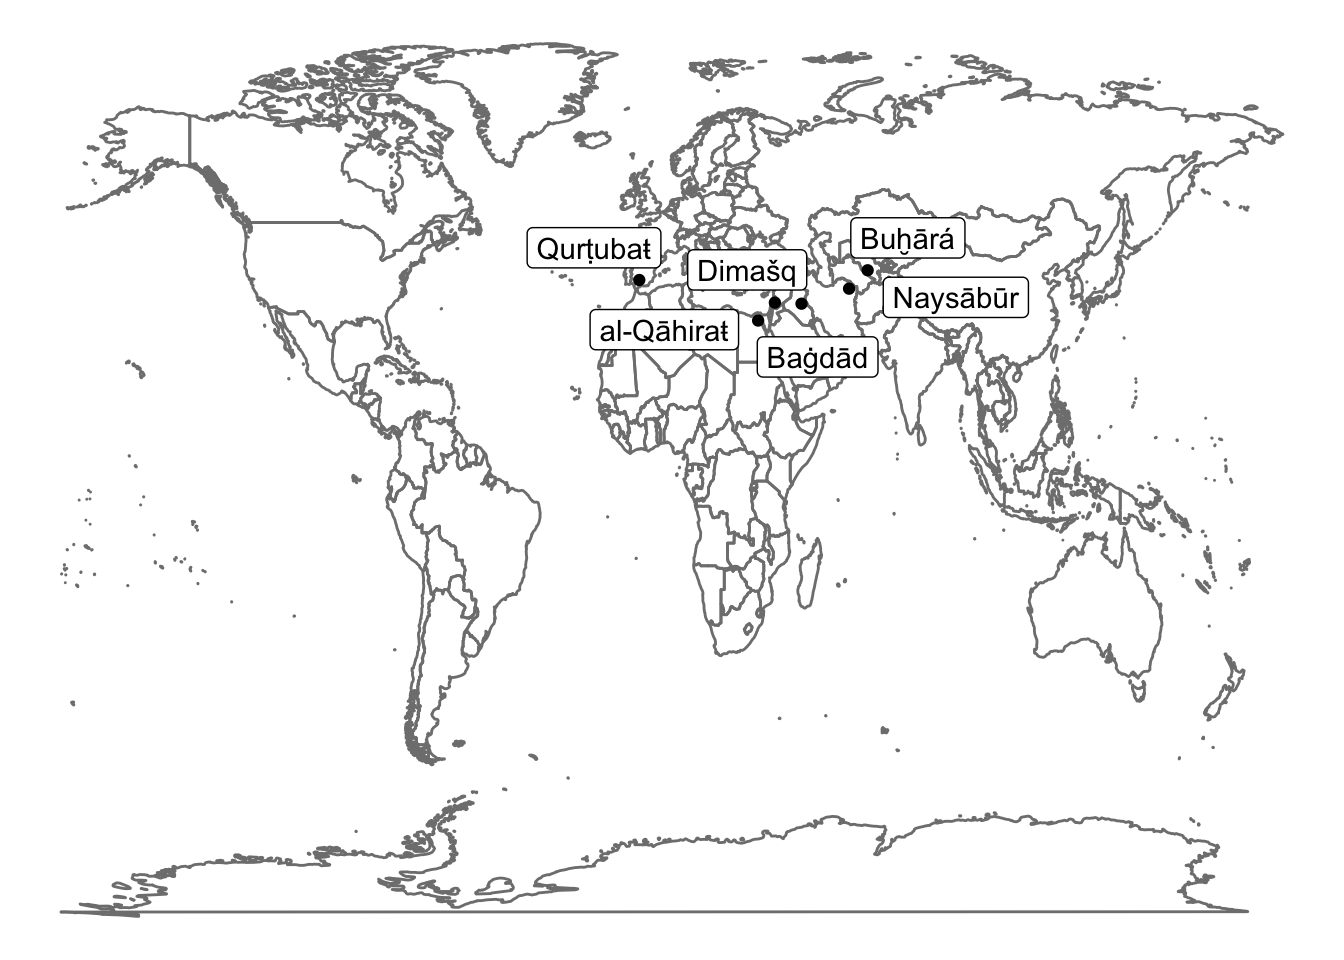
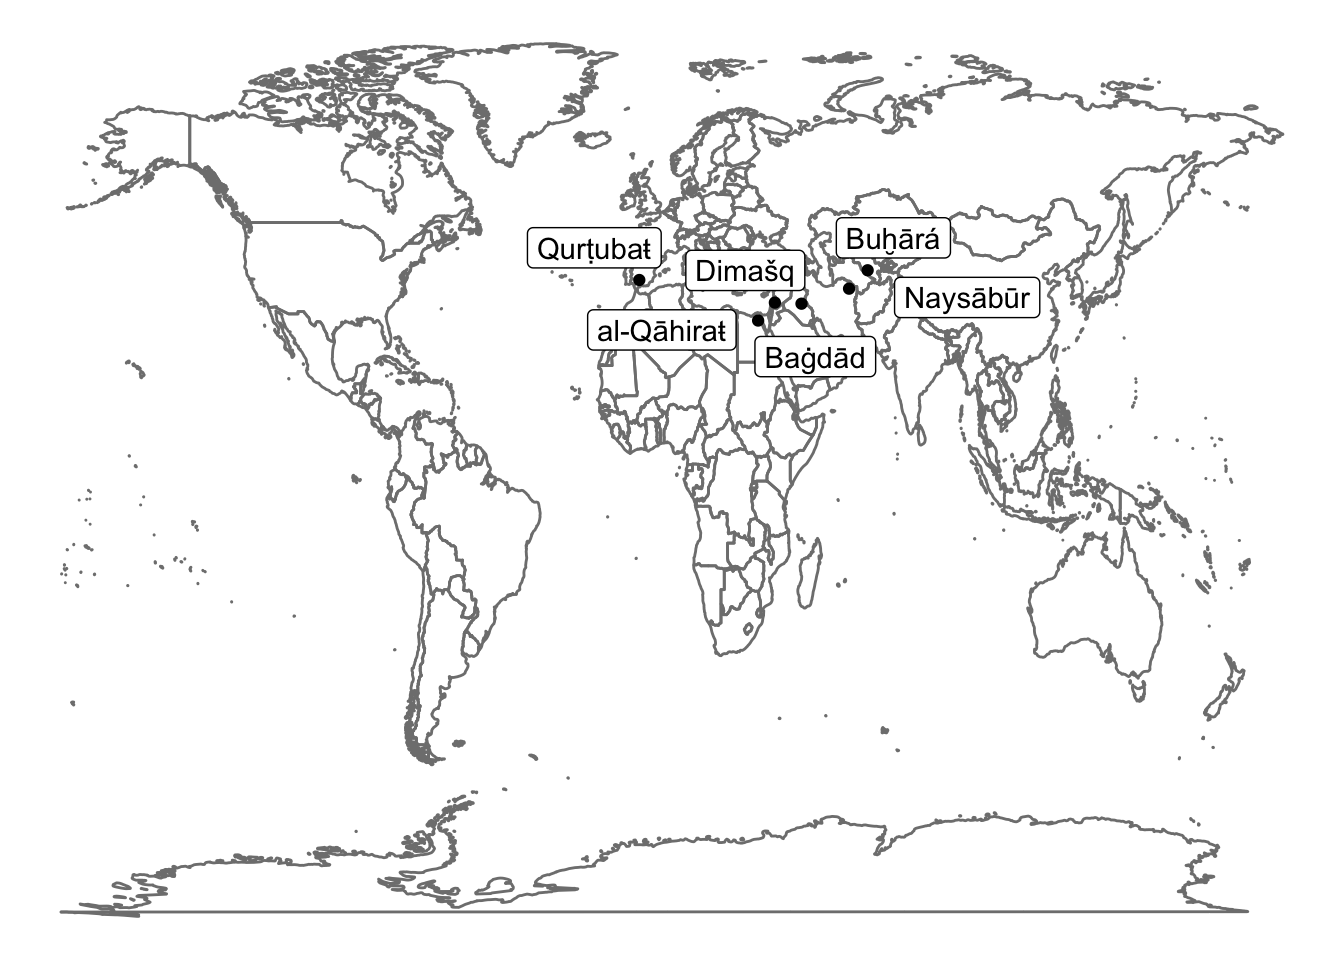
Update the book

Changed region(s): [[0.4375, 0.2188, 0.7812, 0.4062], [0.375, 0.25, 0.4062, 0.2812]]

diff --git a/l08-gis-ii.html b/l08-gis-ii.html
@@ -661,12 +661,49 @@ install.packages(&quot;raster&quot;, &quot;rgdal&quot;)</code></pre>
 <span id="cb50-13"><a href="l08-gis-ii.html#cb50-13" aria-hidden="true" tabindex="-1"></a></span>
 <span id="cb50-14"><a href="l08-gis-ii.html#cb50-14" aria-hidden="true" tabindex="-1"></a>themeParameters <span class="ot">&lt;-</span> <span class="fu">theme</span>(<span class="at">panel.background =</span> <span class="fu">element_rect</span>(<span class="at">fill =</span> waterColor),</span>
 <span id="cb50-15"><a href="l08-gis-ii.html#cb50-15" aria-hidden="true" tabindex="-1"></a>          <span class="at">axis.title.y=</span><span class="fu">element_blank</span>(),</span>
-<span id="cb50-16"><a href="l08-gis-ii.html#cb50-16" aria-hidden="true" tabindex="-1"></a>          <span class="at">axis.title.x=</span><span class="fu">element_blank</span>())</span>
-<span id="cb50-17"><a href="l08-gis-ii.html#cb50-17" aria-hidden="true" tabindex="-1"></a></span>
-<span id="cb50-18"><a href="l08-gis-ii.html#cb50-18" aria-hidden="true" tabindex="-1"></a>baseplot <span class="sc">+</span> themeParameters</span></code></pre></div>
+<span id="cb50-16"><a href="l08-gis-ii.html#cb50-16" aria-hidden="true" tabindex="-1"></a>          <span class="at">axis.title.x=</span><span class="fu">element_blank</span>())</span></code></pre></div>
+<p>Now we can build the same map with just this:</p>
+<div class="sourceCode" id="cb51"><pre class="sourceCode r"><code class="sourceCode r"><span id="cb51-1"><a href="l08-gis-ii.html#cb51-1" aria-hidden="true" tabindex="-1"></a>baseplot <span class="sc">+</span> themeParameters</span></code></pre></div>
 <pre><code>## Scale on map varies by more than 10%, scale bar may be inaccurate</code></pre>
-<p><img src="RGIS2021S_files/figure-html/unnamed-chunk-23-1.png" width="672" /></p>
+<p><img src="RGIS2021S_files/figure-html/unnamed-chunk-24-1.png" width="672" /></p>
 <p>Let’s add some data. You can download <a href="./files/L11_worldcities.csv.zip">this dataset with cities of the world</a>.</p>
+<div class="sourceCode" id="cb53"><pre class="sourceCode r"><code class="sourceCode r"><span id="cb53-1"><a href="l08-gis-ii.html#cb53-1" aria-hidden="true" tabindex="-1"></a><span class="fu">library</span>(ggrepel)</span>
+<span id="cb53-2"><a href="l08-gis-ii.html#cb53-2" aria-hidden="true" tabindex="-1"></a><span class="fu">library</span>(readr)</span>
+<span id="cb53-3"><a href="l08-gis-ii.html#cb53-3" aria-hidden="true" tabindex="-1"></a>worldcities <span class="ot">&lt;-</span> <span class="fu">read_csv</span>(<span class="st">&quot;files/L11_worldcities.csv&quot;</span>)</span></code></pre></div>
+<pre><code>## Parsed with column specification:
+## cols(
+##   city = col_character(),
+##   city_ascii = col_character(),
+##   lat = col_double(),
+##   lng = col_double(),
+##   country = col_character(),
+##   iso2 = col_character(),
+##   iso3 = col_character(),
+##   admin_name = col_character(),
+##   capital = col_character(),
+##   population = col_double(),
+##   id = col_double()
+## )</code></pre>
+<div class="sourceCode" id="cb55"><pre class="sourceCode r"><code class="sourceCode r"><span id="cb55-1"><a href="l08-gis-ii.html#cb55-1" aria-hidden="true" tabindex="-1"></a><span class="co"># xlim=c(-12,80); ylim=c(10,50)</span></span>
+<span id="cb55-2"><a href="l08-gis-ii.html#cb55-2" aria-hidden="true" tabindex="-1"></a></span>
+<span id="cb55-3"><a href="l08-gis-ii.html#cb55-3" aria-hidden="true" tabindex="-1"></a>wc_filtered <span class="ot">&lt;-</span> worldcities <span class="sc">%&gt;%</span></span>
+<span id="cb55-4"><a href="l08-gis-ii.html#cb55-4" aria-hidden="true" tabindex="-1"></a>  <span class="fu">filter</span>(<span class="fu">between</span>(lat, <span class="dv">10</span>, <span class="dv">50</span>), <span class="fu">between</span>(lng, <span class="sc">-</span><span class="dv">12</span>, <span class="dv">80</span>)) <span class="sc">%&gt;%</span></span>
+<span id="cb55-5"><a href="l08-gis-ii.html#cb55-5" aria-hidden="true" tabindex="-1"></a>  <span class="fu">filter</span>(<span class="sc">!</span><span class="fu">is.na</span>(population))</span>
+<span id="cb55-6"><a href="l08-gis-ii.html#cb55-6" aria-hidden="true" tabindex="-1"></a>  </span>
+<span id="cb55-7"><a href="l08-gis-ii.html#cb55-7" aria-hidden="true" tabindex="-1"></a>top_cities <span class="ot">&lt;-</span> worldcities <span class="sc">%&gt;%</span></span>
+<span id="cb55-8"><a href="l08-gis-ii.html#cb55-8" aria-hidden="true" tabindex="-1"></a>  <span class="fu">filter</span>(<span class="fu">between</span>(lat, <span class="dv">10</span>, <span class="dv">50</span>), <span class="fu">between</span>(lng, <span class="sc">-</span><span class="dv">12</span>, <span class="dv">80</span>)) <span class="sc">%&gt;%</span></span>
+<span id="cb55-9"><a href="l08-gis-ii.html#cb55-9" aria-hidden="true" tabindex="-1"></a>  <span class="fu">filter</span>(<span class="sc">!</span><span class="fu">is.na</span>(population)) <span class="sc">%&gt;%</span></span>
+<span id="cb55-10"><a href="l08-gis-ii.html#cb55-10" aria-hidden="true" tabindex="-1"></a>  <span class="fu">top_n</span>(<span class="dv">10</span>, <span class="at">wt =</span> population)</span>
+<span id="cb55-11"><a href="l08-gis-ii.html#cb55-11" aria-hidden="true" tabindex="-1"></a>  </span>
+<span id="cb55-12"><a href="l08-gis-ii.html#cb55-12" aria-hidden="true" tabindex="-1"></a></span>
+<span id="cb55-13"><a href="l08-gis-ii.html#cb55-13" aria-hidden="true" tabindex="-1"></a>baseplot <span class="sc">+</span> </span>
+<span id="cb55-14"><a href="l08-gis-ii.html#cb55-14" aria-hidden="true" tabindex="-1"></a>  <span class="fu">geom_point</span>(<span class="at">data =</span> wc_filtered, <span class="fu">aes</span>(<span class="at">x=</span>lng, <span class="at">y=</span>lat, <span class="at">size=</span>population), <span class="at">alpha =</span> <span class="fl">0.5</span>, <span class="at">col=</span><span class="st">&quot;grey&quot;</span>) <span class="sc">+</span></span>
+<span id="cb55-15"><a href="l08-gis-ii.html#cb55-15" aria-hidden="true" tabindex="-1"></a>  <span class="fu">scale_size</span>(<span class="at">range=</span><span class="fu">c</span>(<span class="fl">0.01</span>, <span class="dv">2</span>)) <span class="sc">+</span></span>
+<span id="cb55-16"><a href="l08-gis-ii.html#cb55-16" aria-hidden="true" tabindex="-1"></a>  <span class="fu">geom_point</span>(<span class="at">data =</span> top_cities, <span class="fu">aes</span>(<span class="at">x=</span>lng, <span class="at">y=</span>lat), <span class="at">col=</span><span class="st">&quot;black&quot;</span>, <span class="at">size=</span><span class="dv">1</span>) <span class="sc">+</span></span>
+<span id="cb55-17"><a href="l08-gis-ii.html#cb55-17" aria-hidden="true" tabindex="-1"></a>  <span class="fu">geom_text_repel</span>(<span class="at">data =</span> top_cities, <span class="fu">aes</span>(<span class="at">x=</span>lng, <span class="at">y=</span>lat, <span class="at">label =</span> city), <span class="at">force =</span> <span class="dv">2</span>, <span class="at">segment.alpha =</span> <span class="dv">0</span>) <span class="sc">+</span> </span>
+<span id="cb55-18"><a href="l08-gis-ii.html#cb55-18" aria-hidden="true" tabindex="-1"></a>  themeParameters</span></code></pre></div>
+<pre><code>## Scale on map varies by more than 10%, scale bar may be inaccurate</code></pre>
+<p><img src="RGIS2021S_files/figure-html/unnamed-chunk-25-1.png" width="672" /></p>
 </div>
 </div>
 <div id="HW08" class="section level2" number="8.3">
